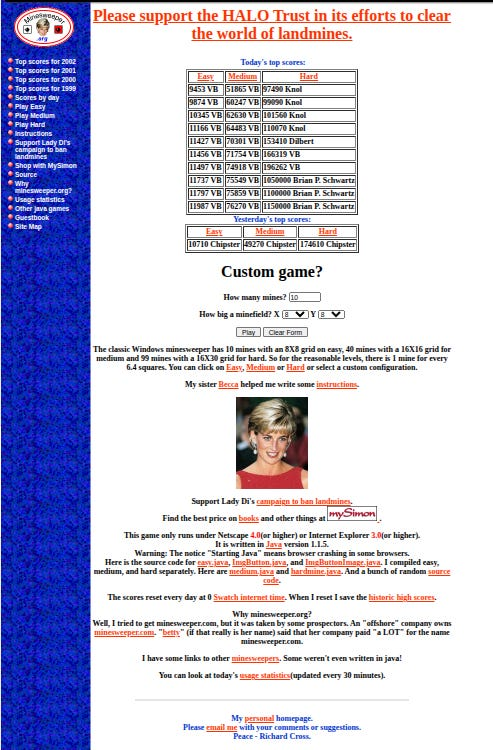
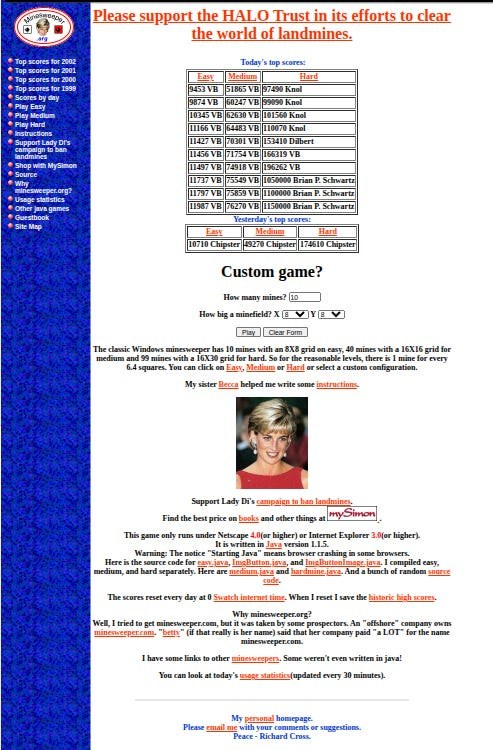
Give essays the side rails, and make EXIF a merge-blocking rule
Rails on essay pages, reusing the same two units the tool pages use rather
than minting essay-specific ones. Geometry is the tool contract unchanged:
160x600 fixed, hidden below 1540px, where the 960px content column still
leaves ~118px of clearance on each side.

The essay index and article index deliberately do NOT get rails. They are
~310 and ~400 words of navigation — three ad units against that is the
content-to-ad ratio the rejection was about. The essays themselves run
950-1100 words, which carries three units comfortably.

Rule 8 scans every committed image for an EXIF block: JPEG APP1, PNG eXIf,
WebP RIFF EXIF, no dependency. It fails on the block's presence rather than
on GPS specifically, because "this one only has DPI tags" is how the habit
erodes. Scrubbed the last remaining file (minesweeper-90s.jpg, orientation
baked in before stripping so nothing rotates); the other 58 images were
already clean.

Changed region(s): [[0.7606, 0.0, 0.8215, 0.0307], [0.6085, 0.0307, 0.6389, 0.0613], [0.3955, 0.0307, 0.426, 0.0613]]

diff --git a/site/styles.css b/site/styles.css
@@ -201,6 +201,30 @@ img { max-width: 100%; height: auto; }
   margin-bottom: 0.75rem;
 }
 
+/* ── Rail ads (sticky left/right, wide screens only) ──
+   Same contract the tool pages use: 160x600 fixed to the viewport, and
+   `display: none` until there is genuinely dead margin to put them in. The
+   breakpoint is not cosmetic — the content column is var(--max-width) (960px)
+   centered, so at 1540px each margin is 290px and a 160px rail inset 12px
+   still clears the text by ~118px. Below that the rails would crowd or overlap
+   the prose, which is the one thing a reading page cannot trade away.
+   Prose pages only: these belong beside an essay, not beside an index. */
+.ad-rail {
+  position: fixed;
+  top: 50%;
+  transform: translateY(-50%);
+  width: 160px;
+  z-index: 50;
+  display: none;
+}
+
+.ad-rail--left { left: 12px; }
+.ad-rail--right { right: 12px; }
+
+@media (min-width: 1540px) {
+  .ad-rail { display: block; }
+}
+
 /* ── Figures (essay + article images with visible captions) ──
    Markdown images render as a bare <img>, so prose that needs a caption uses
    a raw <figure> block. The global `img { max-width: 100% }` reset already

diff --git a/site/essays/why-i-build-these-tools.html b/site/essays/why-i-build-these-tools.html
@@ -38,6 +38,24 @@
 
   <div id="rf-nav"></div>
 
+  <!-- Rail ads: hidden below 1540px, see .ad-rail in styles.css -->
+  <aside class="ad-rail ad-rail--left" aria-label="Advertisement">
+    <ins class="adsbygoogle"
+         style="display:block;width:160px;height:600px"
+         data-ad-slot="8568993100"
+         data-ad-format="vertical"></ins>
+    <script>window.rfMountAdsenseSlots();</script>
+  </aside>
+
+  <aside class="ad-rail ad-rail--right" aria-label="Advertisement">
+    <ins class="adsbygoogle"
+         style="display:block;width:160px;height:600px"
+         data-ad-slot="2979965943"
+         data-ad-format="vertical"></ins>
+    <script>window.rfMountAdsenseSlots();</script>
+  </aside>
+
+
   <main class="page">
     <article>
       <!-- generated:content — do not edit; edit why-i-build-these-tools.md and run `npm run sync-content` -->

diff --git a/site/essays/how-a-tool-gets-built.html b/site/essays/how-a-tool-gets-built.html
@@ -38,6 +38,24 @@
 
   <div id="rf-nav"></div>
 
+  <!-- Rail ads: hidden below 1540px, see .ad-rail in styles.css -->
+  <aside class="ad-rail ad-rail--left" aria-label="Advertisement">
+    <ins class="adsbygoogle"
+         style="display:block;width:160px;height:600px"
+         data-ad-slot="8568993100"
+         data-ad-format="vertical"></ins>
+    <script>window.rfMountAdsenseSlots();</script>
+  </aside>
+
+  <aside class="ad-rail ad-rail--right" aria-label="Advertisement">
+    <ins class="adsbygoogle"
+         style="display:block;width:160px;height:600px"
+         data-ad-slot="2979965943"
+         data-ad-format="vertical"></ins>
+    <script>window.rfMountAdsenseSlots();</script>
+  </aside>
+
+
   <main class="page">
     <article>
       <!-- generated:content — do not edit; edit how-a-tool-gets-built.md and run `npm run sync-content` -->

diff --git a/site/essays/a-floor-of-curiosity.html b/site/essays/a-floor-of-curiosity.html
@@ -39,6 +39,24 @@
 
   <div id="rf-nav"></div>
 
+  <!-- Rail ads: hidden below 1540px, see .ad-rail in styles.css -->
+  <aside class="ad-rail ad-rail--left" aria-label="Advertisement">
+    <ins class="adsbygoogle"
+         style="display:block;width:160px;height:600px"
+         data-ad-slot="8568993100"
+         data-ad-format="vertical"></ins>
+    <script>window.rfMountAdsenseSlots();</script>
+  </aside>
+
+  <aside class="ad-rail ad-rail--right" aria-label="Advertisement">
+    <ins class="adsbygoogle"
+         style="display:block;width:160px;height:600px"
+         data-ad-slot="2979965943"
+         data-ad-format="vertical"></ins>
+    <script>window.rfMountAdsenseSlots();</script>
+  </aside>
+
+
   <main class="page">
     <article>
       <!-- generated:content — do not edit; edit a-floor-of-curiosity.md and run `npm run sync-content` -->

diff --git a/scripts/templates/essay-shell.html b/scripts/templates/essay-shell.html
@@ -39,6 +39,24 @@
 
   <div id="rf-nav"></div>
 
+  <!-- Rail ads: hidden below 1540px, see .ad-rail in styles.css -->
+  <aside class="ad-rail ad-rail--left" aria-label="Advertisement">
+    <ins class="adsbygoogle"
+         style="display:block;width:160px;height:600px"
+         data-ad-slot="8568993100"
+         data-ad-format="vertical"></ins>
+    <script>window.rfMountAdsenseSlots();</script>
+  </aside>
+
+  <aside class="ad-rail ad-rail--right" aria-label="Advertisement">
+    <ins class="adsbygoogle"
+         style="display:block;width:160px;height:600px"
+         data-ad-slot="2979965943"
+         data-ad-format="vertical"></ins>
+    <script>window.rfMountAdsenseSlots();</script>
+  </aside>
+
+
   <main class="page">
     <article>
       <!-- generated:content — do not edit; edit {{SLUG}}.md and run `npm run sync-content` -->
